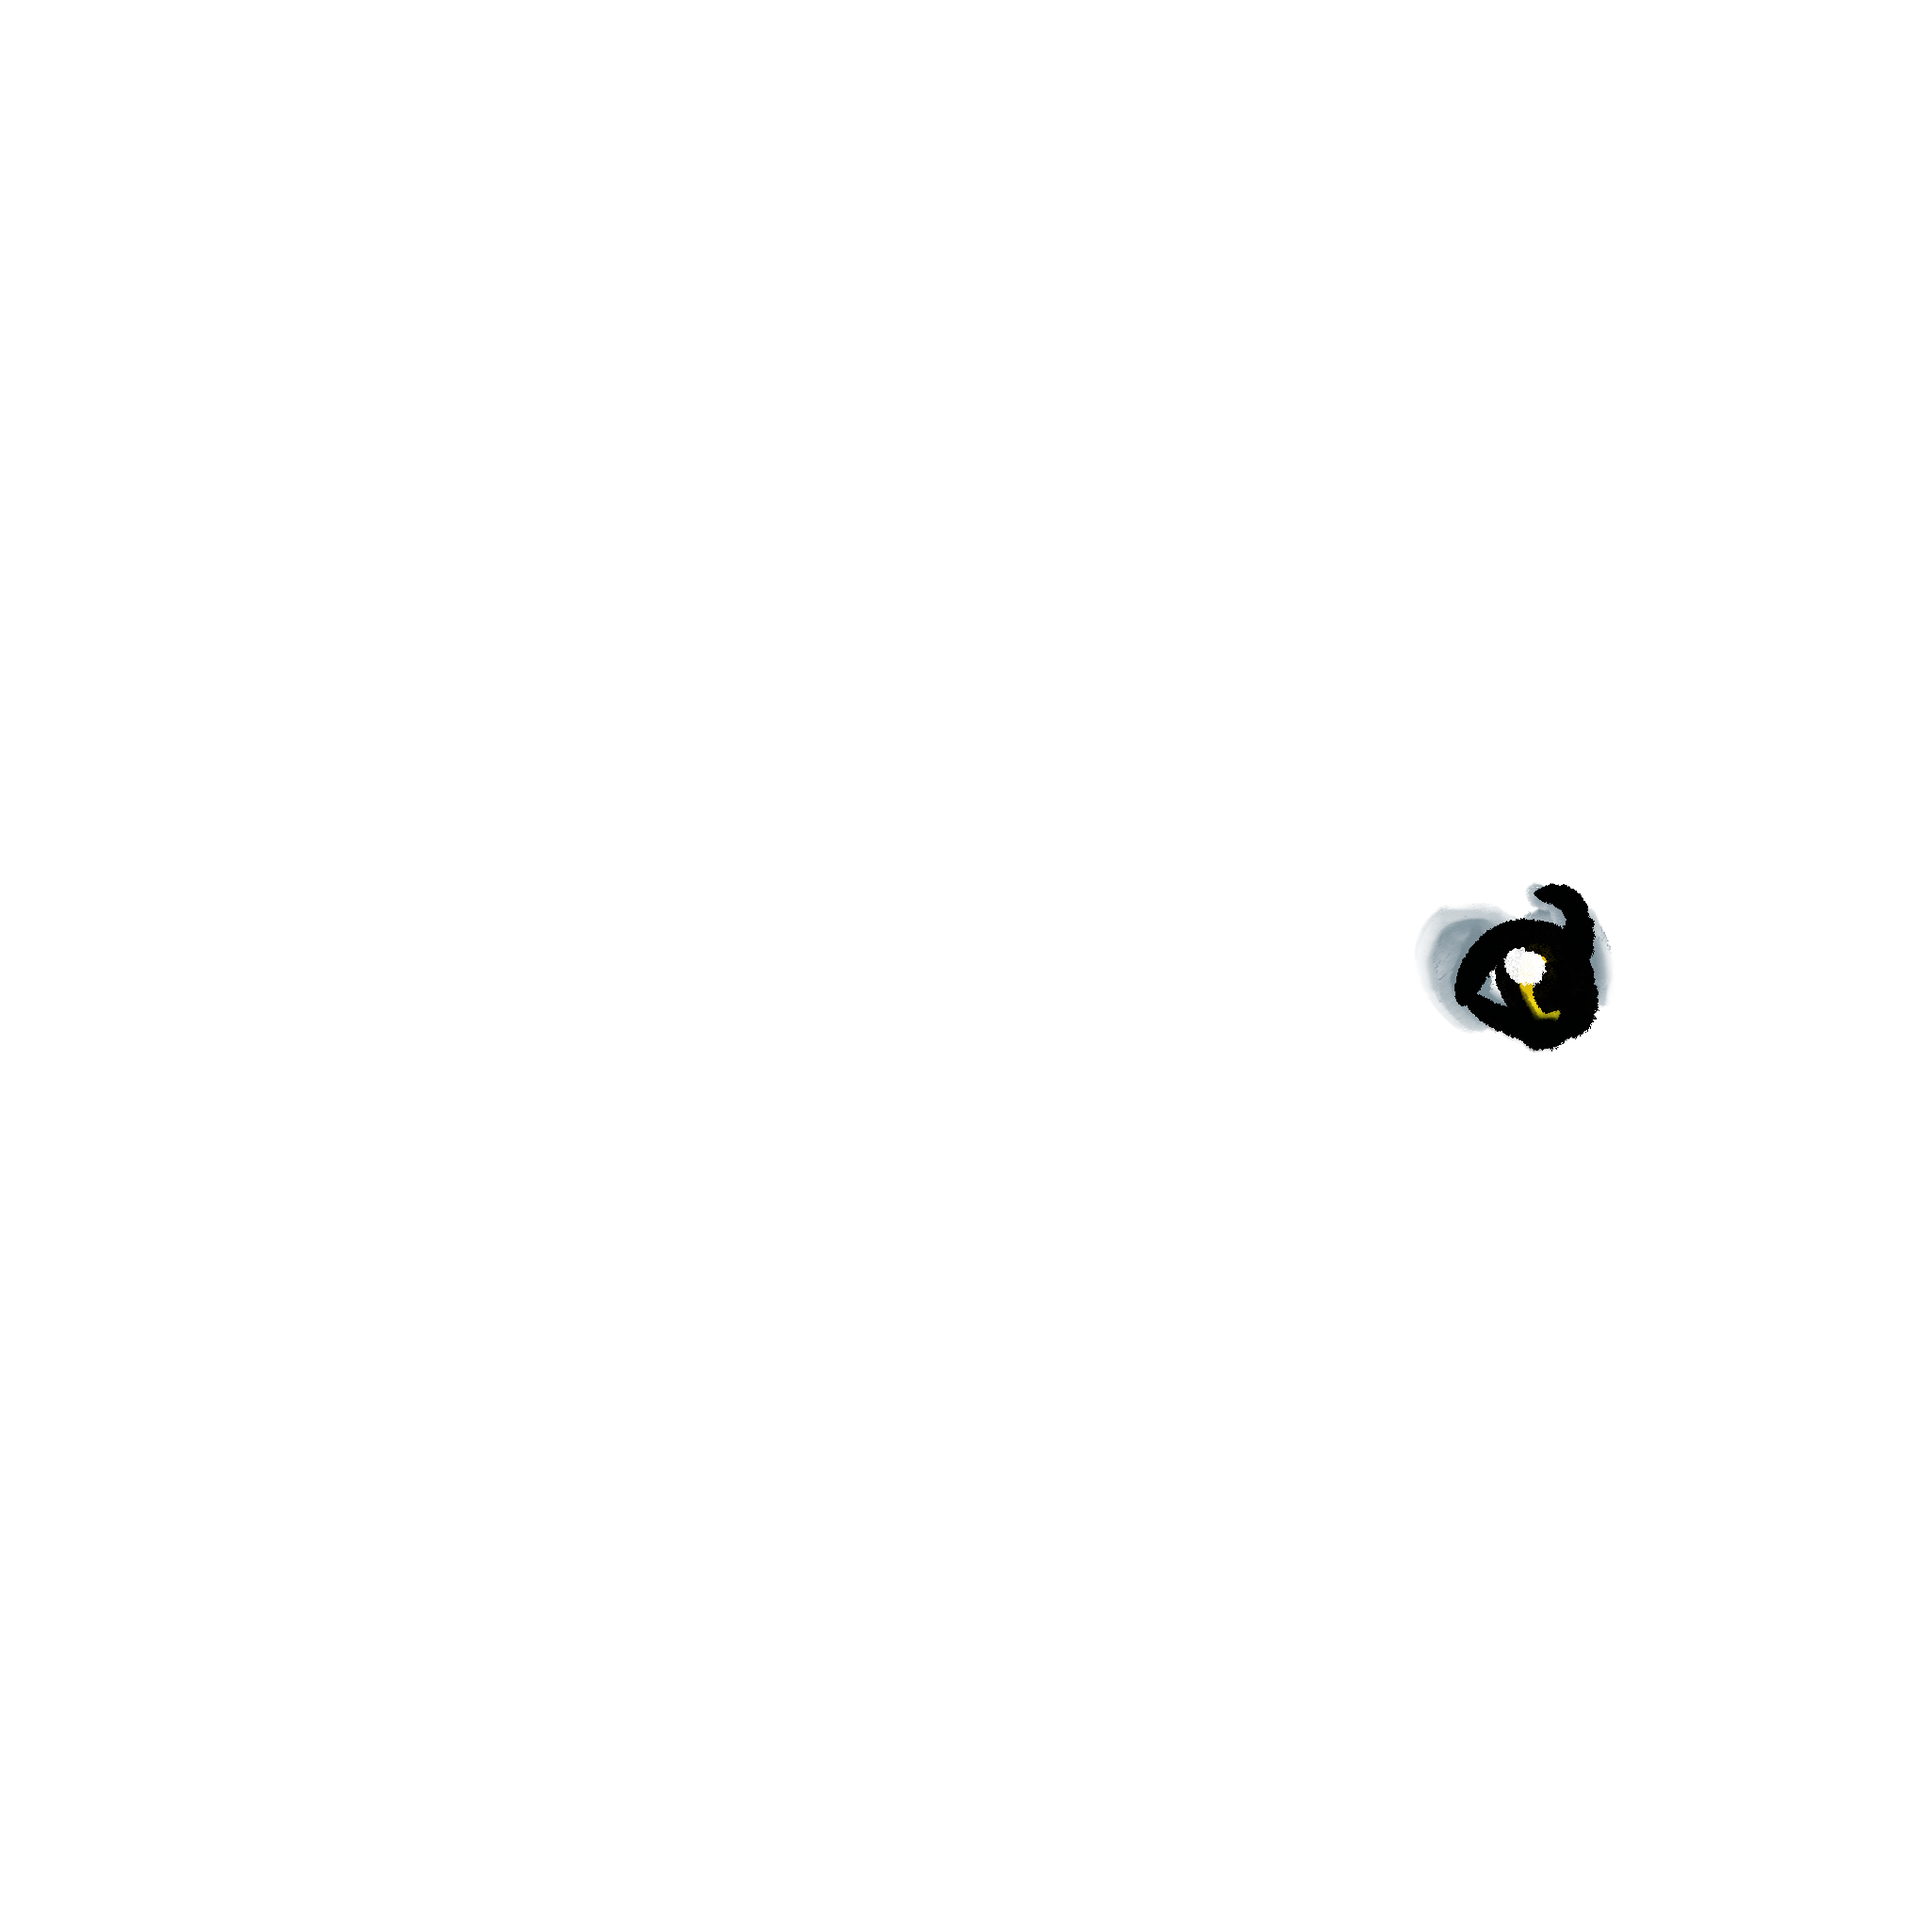
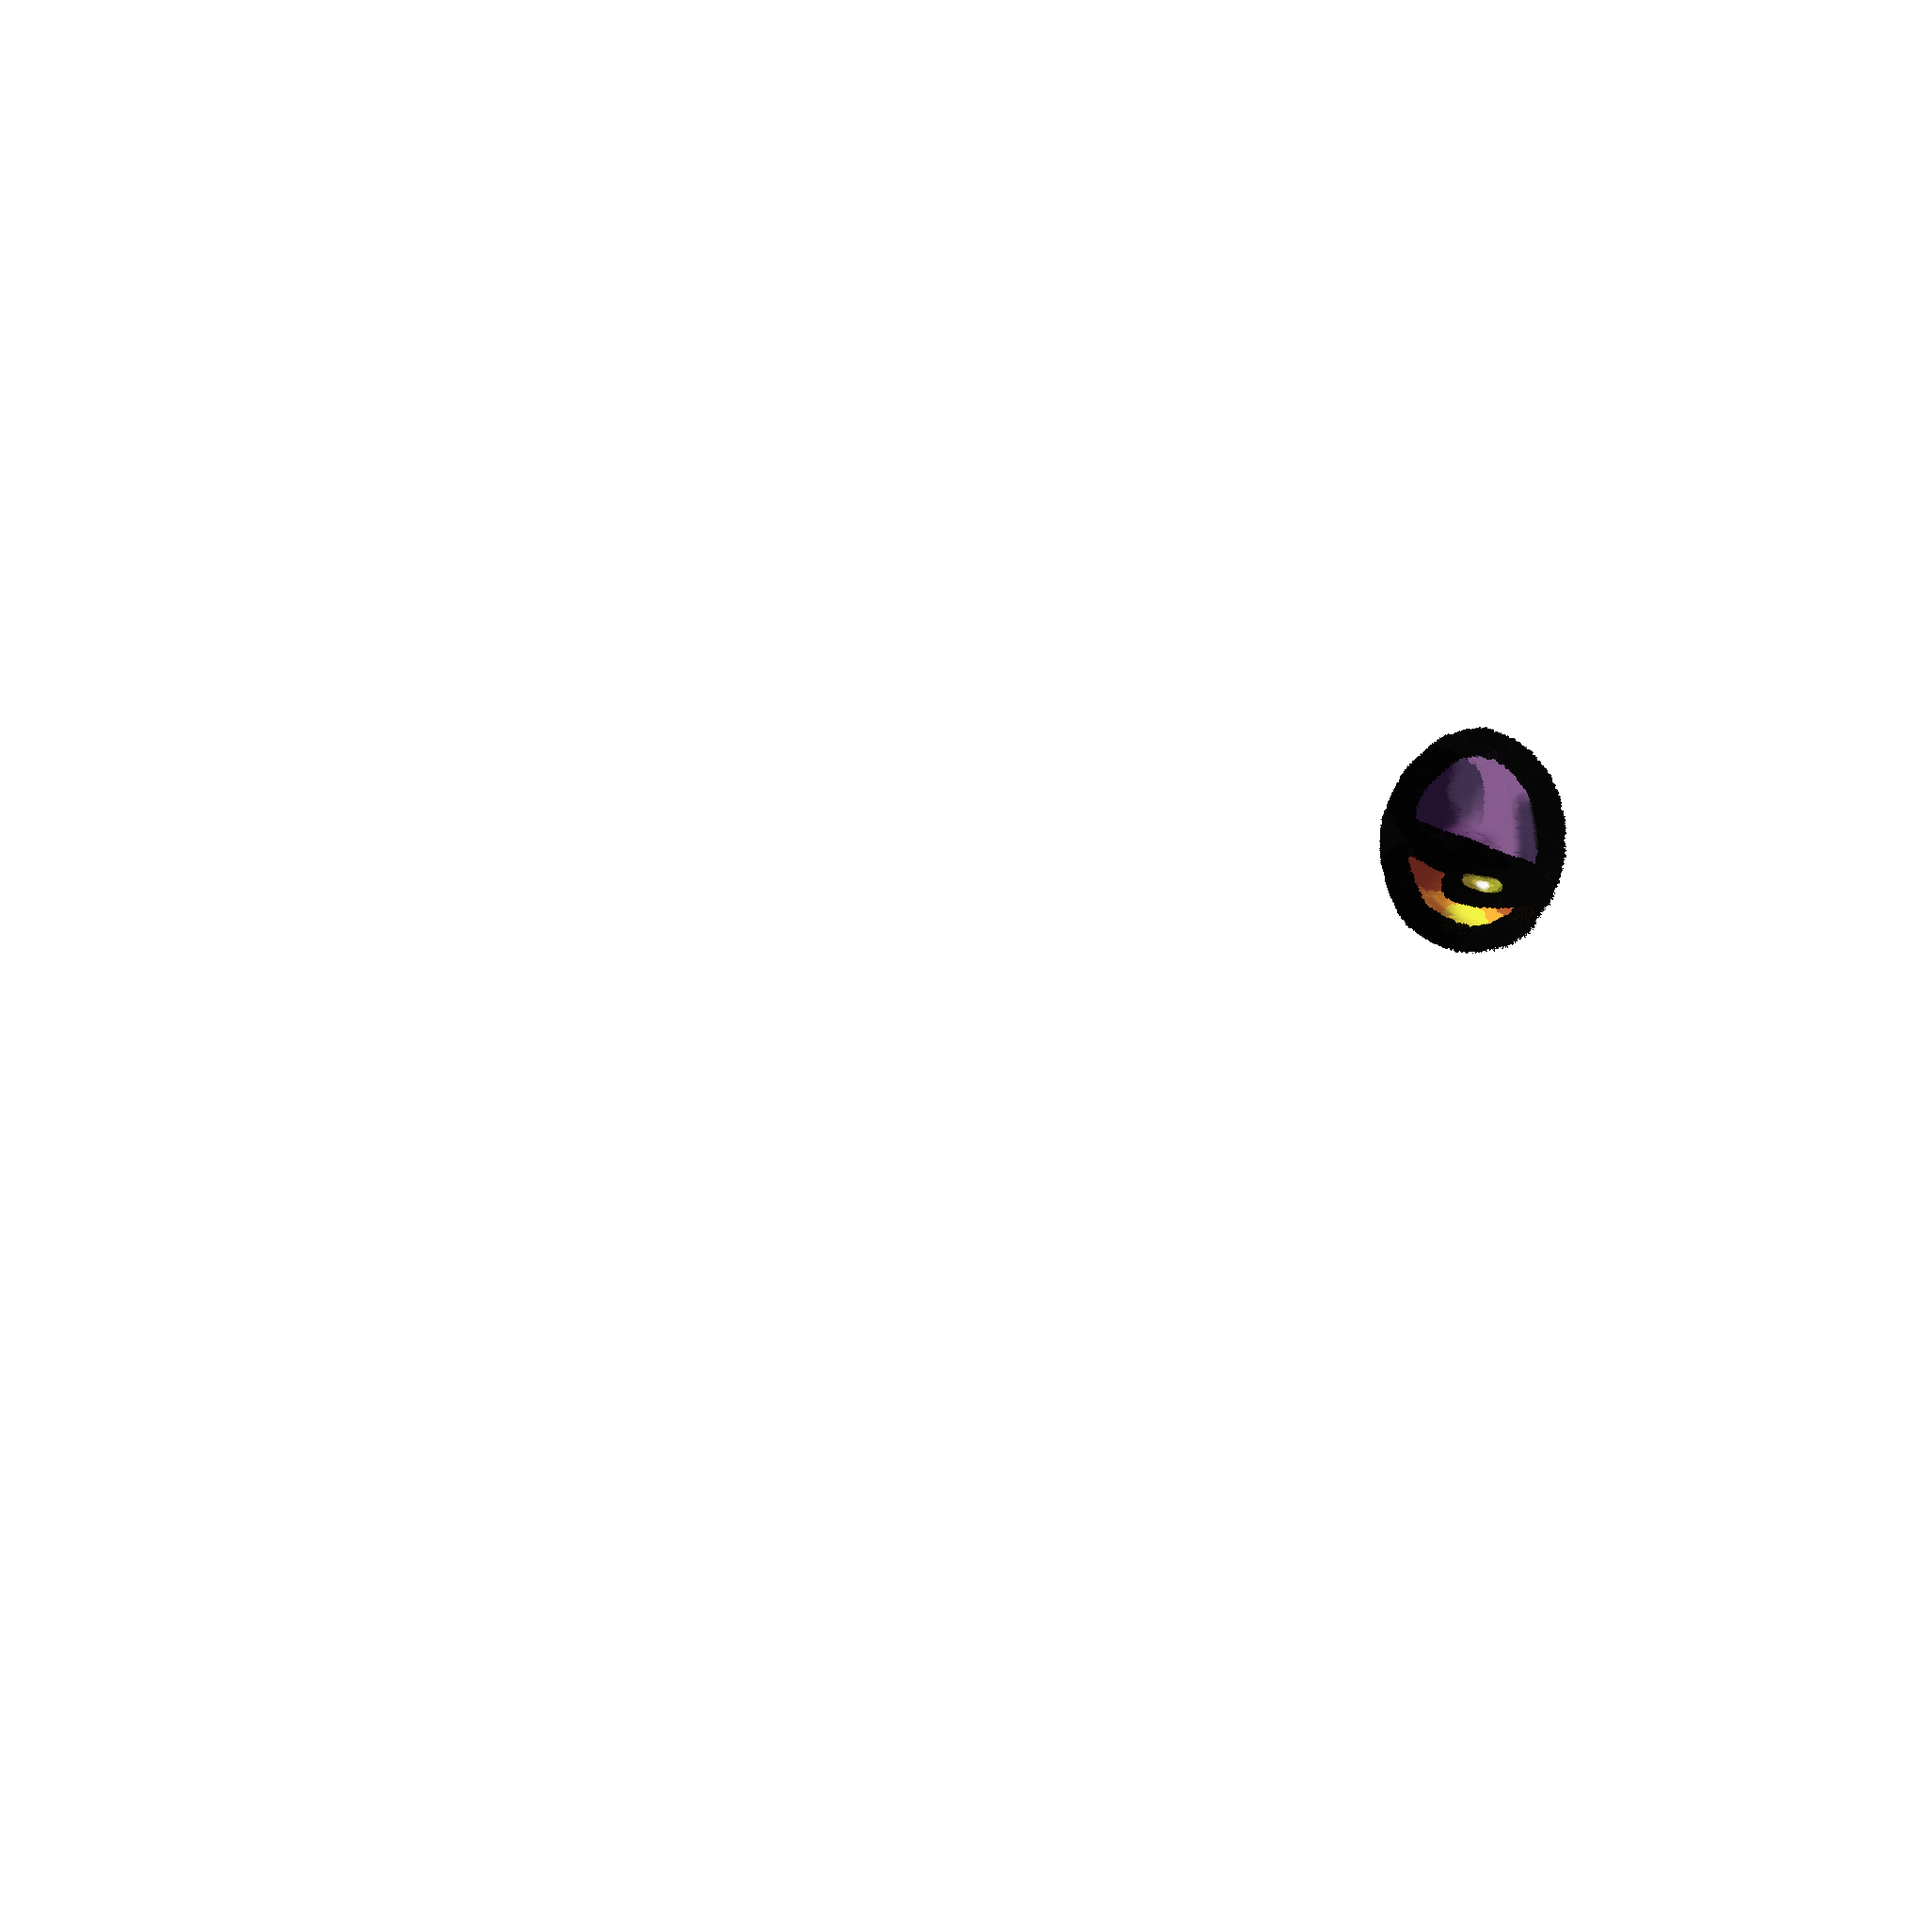
moar fish

Changed region(s): [[0.7188, 0.375, 0.8438, 0.5625]]

diff --git a/js/fishtank.js b/js/fishtank.js
@@ -1,6 +1,6 @@
 const FishCategories = [
-    {Count: 2, FolderName: "ArtFight", DisplayName: "Art Fight"},
-    {Count: 0, FolderName: "Extra", DisplayName: "Extra"}
+    {Count: 5, FolderName: "ArtFight", DisplayName: "Art Fight"},
+    {Count: 1, FolderName: "Extra", DisplayName: "Extra"}
 ]
 const State = {
     Open: 0,
@@ -49,7 +49,8 @@ class Fish {
         this.Position.X -= this.Size * 1.5
         this.Position.Y -= this.Size
 
-        let strToAppend = "<div class='tank-fish' id='" + this.id + "' width='" + this.Size + "px'>"
+        let strToAppend = "<div class='tank-fish' id='" + this.id + "' style='width:" + this.Size + "px;" +
+            "height:" + this.Size + "px;'>"
         strToAppend += "<div class='Tail fish-part'><img src='" + this.Tail + "'\></div>"
         strToAppend += "<div class='Body fish-part'><img src='" + this.Body + "'\></div>"
         strToAppend += "<div class='Flipper fish-part'><img src='" + this.Flipper + "'\></div>"

diff --git a/css/main.css b/css/main.css
@@ -142,6 +142,7 @@ html, body {
     display: flex;
     align-items: center;
     margin-bottom: 10px;
+    background-color: transparent;
 }
 
 .menu-fish .name {
@@ -170,7 +171,6 @@ html, body {
     position: fixed;
     right: 0;
     top: 0;
-    //z-index: -1;
 }
 
 /* KEYFRAMES */
@@ -438,13 +438,13 @@ html, body {
 
 .fish-part{
     position: fixed;
-    width: inherit;
-    height: inherit;
+    width: 100%;
+    height: 100%;
 }
 
 .fish-part img{
-    width: inherit;
-    height: inherit;
+    width: 100%;
+    height: 100%;
     transition: all, 1s;
 }
 
